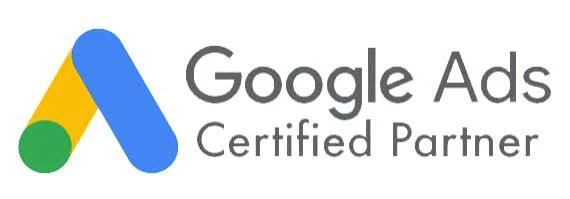
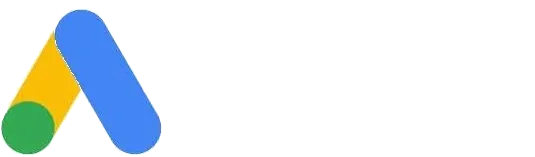
Equilibra o tamanho dos selos no carrossel de parceiros
Meta e Instagram traziam margem transparente do ficheiro de origem, que os
encolhia dentro da caixa de altura fixa: ficam recortados ao conteudo. O selo
do Google Ads vinha de um JPG com fundo branco, que se lia como caixa branca
sobre o preto da seccao: fundo removido e o texto cinzento passado a branco,
mantendo as cores do simbolo.

Meta, Mercado Livre, Instagram e OpenAI ganham um `scale` proprio, porque um
bloco quase quadrado ou de tres linhas fica minusculo ao lado de um wordmark
comprido com a mesma altura.

Claude-Session: https://claude.ai/code/session_01F5fqdgARv39LQPMZrmUYu2

Changed region(s): [[0.0, 0.051, 0.9869, 0.9936], [0.6879, 0.6115, 0.957, 0.7898]]

diff --git a/src/modules/partners/data/partners.ts b/src/modules/partners/data/partners.ts
@@ -11,6 +11,12 @@ import type { Partner } from "../types/partner";
  * imagem, por isso estes nao repetem o rotulo por baixo (ver
  * `PartnersMarquee`).
  *
+ * Meta e Instagram foram recortados a margem transparente que traziam de
+ * origem, e o selo do Google Ads perdeu o fundo branco do JPG (o texto
+ * cinzento passou a branco, para se ler sobre o preto da seccao). As larguras
+ * e alturas abaixo sao as do ficheiro ja recortado. O `scale` compensa
+ * proporcoes muito diferentes entre selos, ver `types/partner.ts`.
+ *
  * WhatsApp, OLX e Asaas nao tinham selo fornecido e continuam com tracado
  * vetorial proprio:
  * - WhatsApp reaproveita o "d" ja em producao em
@@ -27,8 +33,9 @@ export const partners: Partner[] = [
     label: "Meta Tech Provider",
     kind: "image",
     src: "/brand/partners/meta.webp",
-    width: 900,
-    height: 600,
+    width: 756,
+    height: 421,
+    scale: 1.25,
     brand: "#0866FF",
   },
   {
@@ -39,6 +46,7 @@ export const partners: Partner[] = [
     src: "/brand/partners/mercado-livre.webp",
     width: 620,
     height: 430,
+    scale: 1.5,
     brand: "#2D3277",
   },
   {
@@ -83,8 +91,9 @@ export const partners: Partner[] = [
     label: "Instagram API",
     kind: "image",
     src: "/brand/partners/instagram.webp",
-    width: 456,
-    height: 225,
+    width: 421,
+    height: 133,
+    scale: 1.15,
     brand: "#E1306C",
   },
   {
@@ -95,6 +104,7 @@ export const partners: Partner[] = [
     src: "/brand/partners/openai.webp",
     width: 1040,
     height: 518,
+    scale: 1.45,
     brand: "#FFFFFF",
   },
   {
@@ -129,8 +139,8 @@ export const partners: Partner[] = [
     label: "Google Ads Certified Partner",
     kind: "image",
     src: "/brand/partners/google-ads.webp",
-    width: 570,
-    height: 199,
+    width: 535,
+    height: 157,
     brand: "#FBBC04",
   },
   {

diff --git a/src/modules/partners/components/PartnersMarquee.tsx b/src/modules/partners/components/PartnersMarquee.tsx
@@ -103,7 +103,7 @@ export function PartnersMarquee() {
             <div key={`${partner.id}-${index}`} className="group flex h-24 shrink-0 flex-col items-center justify-center gap-3 px-10">
               <div
                 style={{ "--brand": partner.brand, "--glow": partner.glow ?? `${partner.brand}8C` } as CSSProperties}
-                className="flex h-12 items-center justify-center text-white/40 [filter:grayscale(1)] transition-all duration-[400ms] [transition-timing-function:cubic-bezier(0.22,1,0.36,1)] group-hover:-translate-y-2 group-hover:text-[var(--brand)] group-hover:[filter:grayscale(0)_drop-shadow(0_0_14px_var(--glow))]"
+                className="flex h-16 items-center justify-center text-white/40 [filter:grayscale(1)] transition-all duration-[400ms] [transition-timing-function:cubic-bezier(0.22,1,0.36,1)] group-hover:-translate-y-2 group-hover:text-[var(--brand)] group-hover:[filter:grayscale(0)_drop-shadow(0_0_14px_var(--glow))]"
               >
                 <BrandMark partner={partner} height={40} />
               </div>

diff --git a/src/modules/partners/components/BrandMark.tsx b/src/modules/partners/components/BrandMark.tsx
@@ -9,18 +9,20 @@ type BrandMarkProps = {
 /**
  * Desenha a marca de um parceiro a partir da sua proporcao natural: a
  * largura sai do viewBox (traçado próprio) ou das dimensões do ficheiro
- * (selo pronto), a altura é o único número fixo. Evita repetir a conta que a
- * origem (Growth Hub) fazia a mão só para o wordmark da Asaas.
+ * (selo pronto), a altura é o único número fixo, ajustável por selo com
+ * `scale`. Evita repetir a conta que a origem (Growth Hub) fazia a mão só
+ * para o wordmark da Asaas.
  */
 export function BrandMark({ partner, height = 40, className }: BrandMarkProps) {
   if (partner.kind === "image") {
-    const width = (height * partner.width) / partner.height;
+    const scaled = height * (partner.scale ?? 1);
+    const width = (scaled * partner.width) / partner.height;
     return (
       <img
         src={partner.src}
         alt={partner.label}
         width={width}
-        height={height}
+        height={scaled}
         loading="lazy"
         decoding="async"
         className={className}

diff --git a/src/modules/partners/types/partner.ts b/src/modules/partners/types/partner.ts
@@ -30,6 +30,13 @@ export type ImagePartner = PartnerBase & {
   src: string;
   width: number;
   height: number;
+  /**
+   * Multiplica a altura base do selo. Serve para equilibrar selos com
+   * proporcoes muito diferentes: um bloco quase quadrado ou de tres linhas
+   * fica visualmente minusculo ao lado de um wordmark comprido com a mesma
+   * altura. Ausente equivale a 1.
+   */
+  scale?: number;
 };
 
 export type Partner = VectorPartner | ImagePartner;
